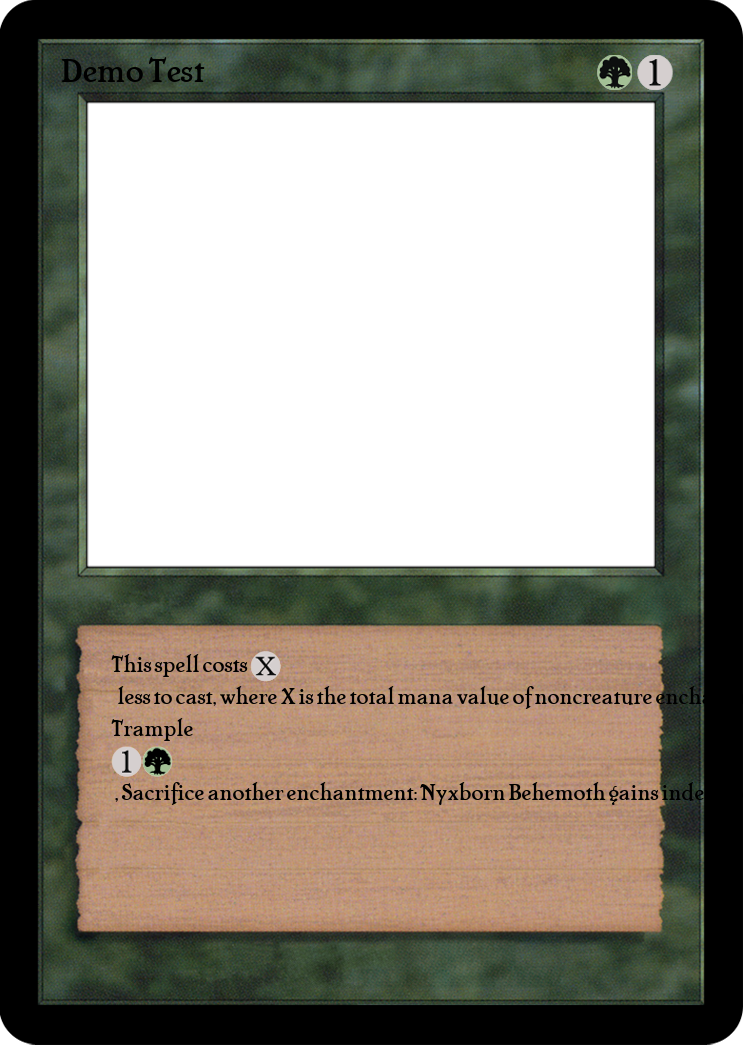
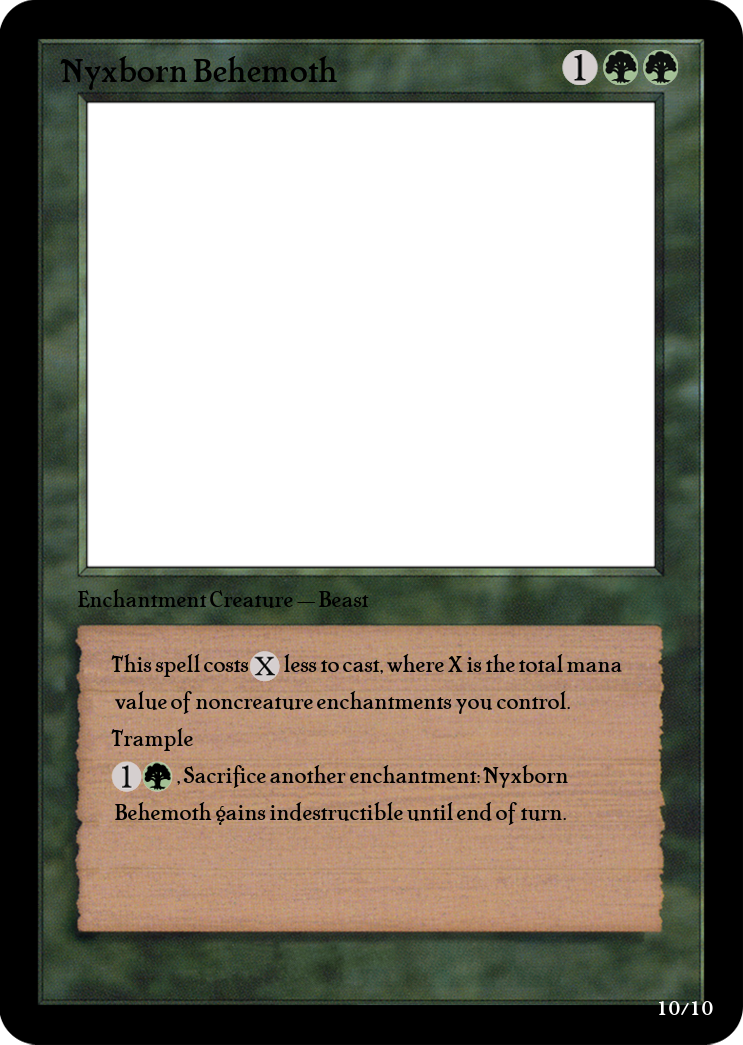
power toughness and text parsing

diff --git a/script.py b/script.py
@@ -9,91 +9,113 @@ cards = [
         "template": "green",
         "mana1_path": "mtg/1.png",
         "mana2_path": "mtg/G.png",
-        "card_name": "Demo Test",
+        "mana_cost" : "{1}{G}{G}",
+        "card_name": "Nyxborn Behemoth",
+        "type_line": "Enchantment Creature — Beast",
         "text": "This spell costs {X} less to cast, where X is the total mana value of noncreature enchantments you control.\nTrample\n{1}{G}, Sacrifice another enchantment: Nyxborn Behemoth gains indestructible until end of turn.",
-        "output_path": "output_card1.png"
+        "output_path": "output_card1.png",
+        "power": "10",
+        "toughness": "10"
     },
     # ... other cards
 ]
-def replace_symbols_with_images(template, draw, text, start_x, start_y, font):
+def replace_symbols_with_images(template, draw, text, start_x, start_y, font, max_width):
     pattern = re.compile(r'\{[0-9XGURWB]+\}')
     lines = text.split('\n')
     current_y = start_y
-
     for line in lines:
-        words = re.split(r'(\{[0-9XGURWB]+\})', line)  # Split by symbols only
         current_x = start_x
-        for word in words:
-            if word == "":
+        line_words = re.split(r'(\s+|\{[0-9XGURWB]+\})', line)  # Split by whitespace and symbols
+        for word in line_words:
+            if word.isspace() or word == "":
                 continue
-
-            # If the word is a symbol, paste the symbol image
-            if pattern.fullmatch(word):
+            if pattern.fullmatch(word):  # Symbol
                 symbol = word.strip('{}')
-                symbol_image = Image.open(f'assets/manaSmall/{symbol}.png')
-                if symbol_image.mode != 'RGBA':
-                    symbol_image = symbol_image.convert('RGBA')
+                symbol_image = Image.open(f'assets/manaSmall/{symbol}.png').convert('RGBA')
+                if current_x + symbol_image.width > max_width:  # Check if symbol overflows max width
+                    current_y += draw.textbbox((0, 0), 'Ay', font=font)[3] + 10  # Add line height
+                    current_x = start_x  # Reset to start_x
                 template.paste(symbol_image, (current_x, current_y), symbol_image)
-                current_x += symbol_image.size[0]
-            else:  # If the word is a text
-                # Add spaces back except for the first word in a line
+                current_x += symbol_image.width
+            else:  # Regular text
+                # Add space if it's not the first word/symbol on the line
                 if current_x > start_x:
-                    word = " " + word
-                word_width, word_height = draw.textsize(word, font=font)
-                if current_x + word_width > template.size[0]:  # New line if text overflows
-                    current_y += word_height + 5  # Adjust line spacing if needed
-                    current_x = start_x
+                    word = ' ' + word
+                # Check if word overflows max width
+                if current_x + draw.textbbox((0, 0), word, font=font)[2] > max_width:
+                    current_y += draw.textbbox((0, 0), 'Ay', font=font)[3] + 10  # Add line height
+                    current_x = start_x  # Reset to start_x
                 draw.text((current_x, current_y), word, font=font, fill=(0, 0, 0))
-                current_x += word_width
+                current_x += draw.textbbox((0, 0), word, font=font)[2]
+        current_y += draw.textbbox((0, 0), 'Ay', font=font)[3] + 10  # Move to next line after each line
 
-        # Increment y-coordinate for the next line
-        current_y += font.getsize('Ay')[1] + 5  # Adjust line spacing if needed
+def parse_mana_cost(mana_cost, template, start_x, start_y):
+    # Use regex to find all instances of mana symbols
+    mana_symbols = re.findall(r'\{[0-9XGURWB]+\}', mana_cost)
+    current_x = start_x
+    for symbol in mana_symbols:
+        # Strip the curly braces and construct the image path
+        symbol = symbol.strip('{}')
+        symbol_image = Image.open(f'assets/mana/{symbol}.png').convert('RGBA')
+        # Paste the symbol image onto the template
+        template.paste(symbol_image, (current_x, start_y), symbol_image)
+        # Update x position for next symbol
+        current_x += symbol_image.size[0] + 5  # Add a small margin
+    return current_x
 
 
 def create_card(card):
     # Load the main card template
     template_files = {
-        "white": "assets/templates/white_temp.png",
+        # ... other template files
         "green": "assets/templates/green_temp.png",
-        "blue": "assets/templates/blue_temp.png",
-        "red": "assets/templates/red_temp.png",
-        "black": "assets/templates/black_temp.png"
+        # ... other template files
     }
     template = Image.open(template_files[card["template"]])
-    
-    # Load mana images
-    mana1 = Image.open("assets/mana/1.png")
-    mana2 = Image.open("assets/mana/G.png")
 
-    # Calculate position for mana images (top-right corner)
-    mana1_x = template.width - mana1.width - 70  # 10 pixels from the right edge
-    mana1_y = 55  # 63 pixels from the top
-
-    mana2_x = mana1_x - mana2.width - 5  # 5 pixels left to the first mana
-    mana2_y = 55
-
-    # Paste mana images on the template
-    template.paste(mana1, (mana1_x, mana1_y), mana1)
-    template.paste(mana2, (mana2_x, mana2_y), mana2)
-
-  # Add card name
+    # Create a drawing context for the template
     draw = ImageDraw.Draw(template)
-    font = ImageFont.truetype("assets/fonts/Cheboyga.ttf", 33)  # Adjust font and size
-    text_x = 60  # 60 pixels from the left
-    text_y = 50  # 60 pixels from the top
-    draw.text((text_x, text_y), card["card_name"], (0, 0, 0), font=font)  # Black text
+
+    # Define the font for the card text
+    font_path = "assets/fonts/Cheboyga.ttf"
+    font_size_text = 22
+    font_text = ImageFont.truetype(font_path, font_size_text)
+
+    # Render the mana cost at the top-right corner
+    mana_cost_start_x = template.width - 181  # Adjust based on your template
+    mana_cost_start_y = 50  # Adjust based on your template
+    current_x = parse_mana_cost(card["mana_cost"], template, mana_cost_start_x, mana_cost_start_y)
+
+    # Render the type line
+    type_line_x = 77  # Adjust based on your template
+    type_line_y = 585  # Adjust based on your template
+    draw.text((type_line_x, type_line_y), card["type_line"], (0, 0, 0), font=font_text)
+
+    # Define font for power/toughness
+    font_pt = ImageFont.truetype(font_path, font_size_text)  # Assuming same size as card text for now
+
+    # Calculate position for power/toughness text
+    pt_text = f"{card['power']}/{card['toughness']}"
+    pt_width, pt_height = draw.textsize(pt_text, font=font_pt)
+    pt_x = template.width - pt_width - 30  # 30 pixels padding from the right edge
+    pt_y = template.height - pt_height - 30  # 30 pixels padding from the bottom edge
+
+    # Render power/toughness text
+    draw.text((pt_x, pt_y), pt_text, (255, 255, 255), font=font_pt)  # White text for visibility
+
+
+    # Add card name
+    font_size_name = 33
+    font_name = ImageFont.truetype(font_path, font_size_name)
+    text_x = 60  # Adjust as needed
+    text_y = 50  # Adjust as needed
+    draw.text((text_x, text_y), card["card_name"], (0, 0, 0), font=font_name)
 
     # Add card text with symbols
-    draw = ImageDraw.Draw(template)
-    font_text = ImageFont.truetype("assets/fonts/Cheboyga.ttf", 22)
     text_x = 111
     text_y = 650
-   
-    replace_symbols_with_images(template, draw, card["text"], text_x, text_y, font_text)
-
-    # # Text wrapping (if necessary)
-    # wrapped_text = textwrap.fill(card["text"], width=40)  # Adjust 'width' as needed for your card
-    # draw.text((text_x, text_y), wrapped_text, (0, 0, 0), font=font_text)
+    max_text_width = 656  # Adjust this value based on your card's actual template size
+    replace_symbols_with_images(template, draw, card["text"], text_x, text_y, font_text, max_text_width)
 
     # Save the result
     template.save(card["output_path"], format='PNG')
